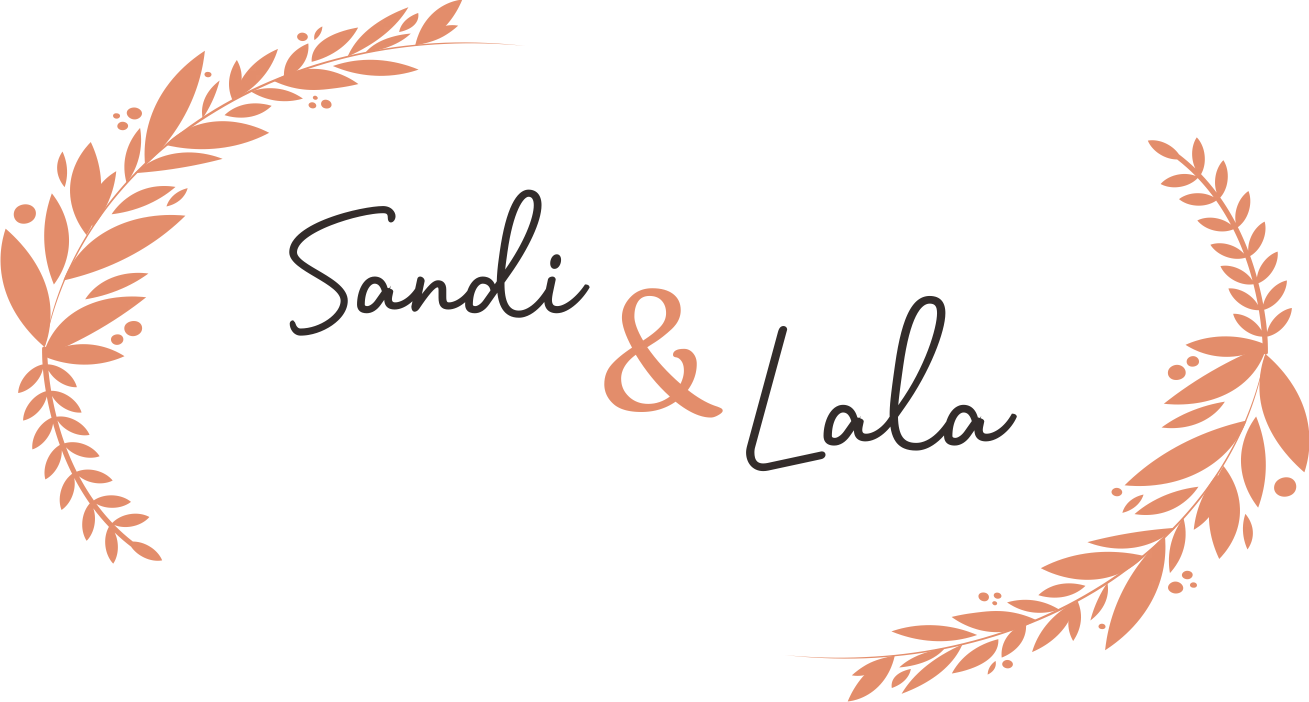
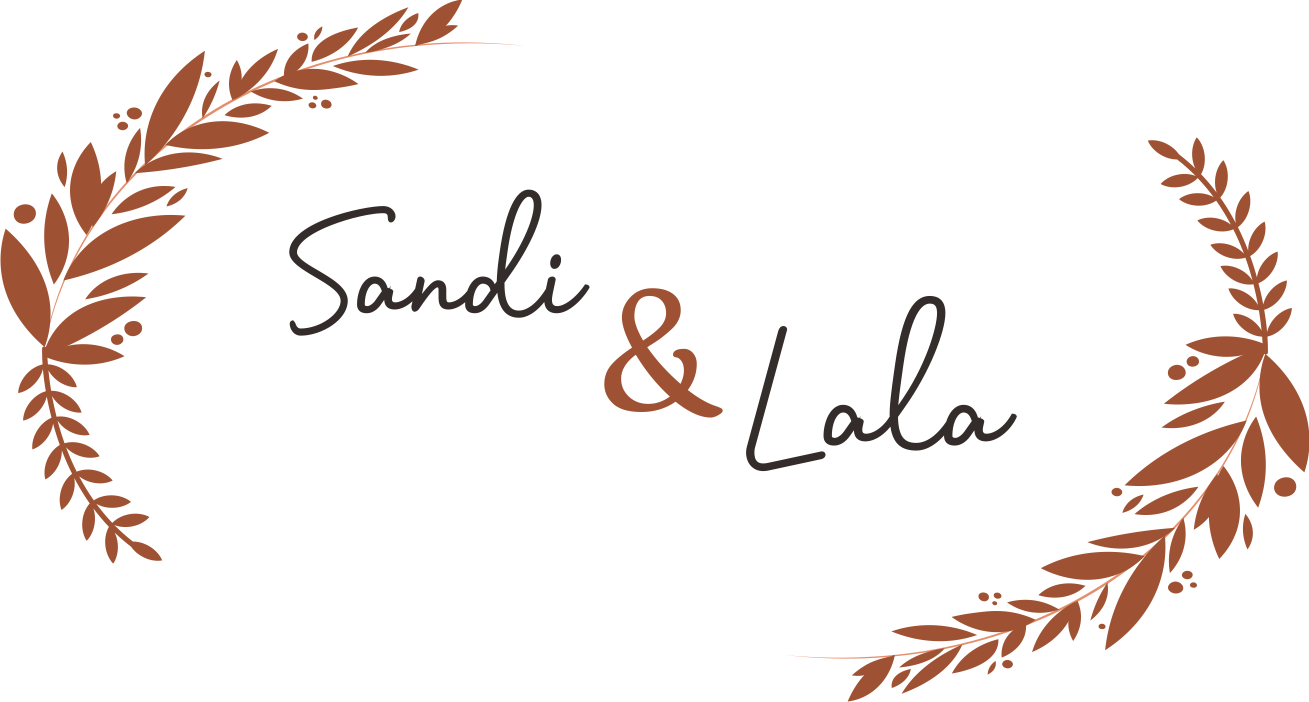
add background & fix google form

Changed region(s): [[0.6417, 0.1795, 1.0, 1.0], [0.0, 0.0, 0.3667, 0.8077], [0.4584, 0.3889, 0.55, 0.5983]]

diff --git a/index.html b/index.html
@@ -11,7 +11,8 @@
         integrity="sha384-MCw98/SFnGE8fJT3GXwEOngsV7Zt27NXFoaoApmYm81iuXoPkFOJwJ8ERdknLPMO" crossorigin="anonymous">
     <link rel="stylesheet" href="style.css">
 
-    <link href="https://fonts.googleapis.com/css2?family=Dancing+Script&display=swap" rel="stylesheet">
+    <link href="https://fonts.googleapis.com/css2?family=Grandstander:wght@400;800&display=swap" rel="stylesheet"> 
+    <link href="https://fonts.googleapis.com/css2?family=Courgette&display=swap" rel="stylesheet"> 
 
     <title>Sandi & Lala</title>
     <link rel="shortcut icon" href="https://img.icons8.com/cotton/2x/like.png" type="image/x-icon">
@@ -63,7 +64,7 @@
             <div class="col col-lg-2 col-12" style="font-size: 50px;">
                 &
             </div>
-            <div class="col col-lg-5 col-12">
+            <div class="col col-lg-5 col-12 col-lala">
                 Lala
                 <div id="text-nama-ortu">Putri dari Bpk. Anu & Ibu Anu</div>
             </div>
@@ -125,9 +126,9 @@
     </div>
 
     <div class="google-form mt-4 bg-dark">
-        <center><iframe
+        <center><iframe class="mt-2"
                 src="https://docs.google.com/forms/d/e/1FAIpQLSdP2Dq0MwgTHs5qMcmgnqYWhsTVwaM4Nvd6HpGbsF2cSukcVg/viewform?embedded=true"
-                width="640" height="609" frameborder="0" marginheight="0" marginwidth="0">Loading…</iframe></center>
+                width="640" height="640" frameborder="0" marginheight="0" marginwidth="0">Loading…</iframe></center>
     </div>
 
     <footer class="bg-dark">

diff --git a/style.css b/style.css
@@ -1,7 +1,7 @@
 body {
     margin: 0;
     padding: 0;
-    background-color: cornsilk;
+    background-image: url('img/img-back.jpg');
 }
 
 .nav {
@@ -19,8 +19,9 @@ body {
 
 .text-top {
     text-align: center;
-    color: salmon;
-    font-family: 'Dancing Script', cursive;
+    font-weight: bolder;
+    color: sienna;
+    font-family: 'Courgette', cursive;
 }
 
 .header {
@@ -39,35 +40,40 @@ body {
 
 .text-header {
     text-align: center;
-    color: salmon;
+    color: sienna;
     font-size: 14px;
+    font-family: 'Grandstander', cursive;
 }
 
 .text-nama {
     text-align: center;
-    color: salmon;
-    font-size : 40px
+    color: sienna;
+    font-size : 40px;
+    font-family: 'Grandstander', cursive;
 }
 
 #text-nama-ortu {
-    font-size : 14px
+    font-size : 14px;
+    font-family: 'Grandstander', cursive;
 }
 
 .text-undangan {
     text-align: center;
-    color: salmon;
+    color: sienna;
     font-size: 14px;
     border-bottom: 5px solid whitesmoke;
+    font-family: 'Grandstander', cursive;
 }
 
 footer {
     text-align: center;
-    color: whitesmoke
+    color: whitesmoke;
 }
 
 #countdown-ket-text {
     font-size: 16px;
     margin-top: -10px;
+    font-family: 'Grandstander', cursive;
 }
 
 @media (max-width: 576px) { 
@@ -110,5 +116,5 @@ footer {
 }
 
 .google-form {
-    height: 630px;
+    height: 650px;
 }
